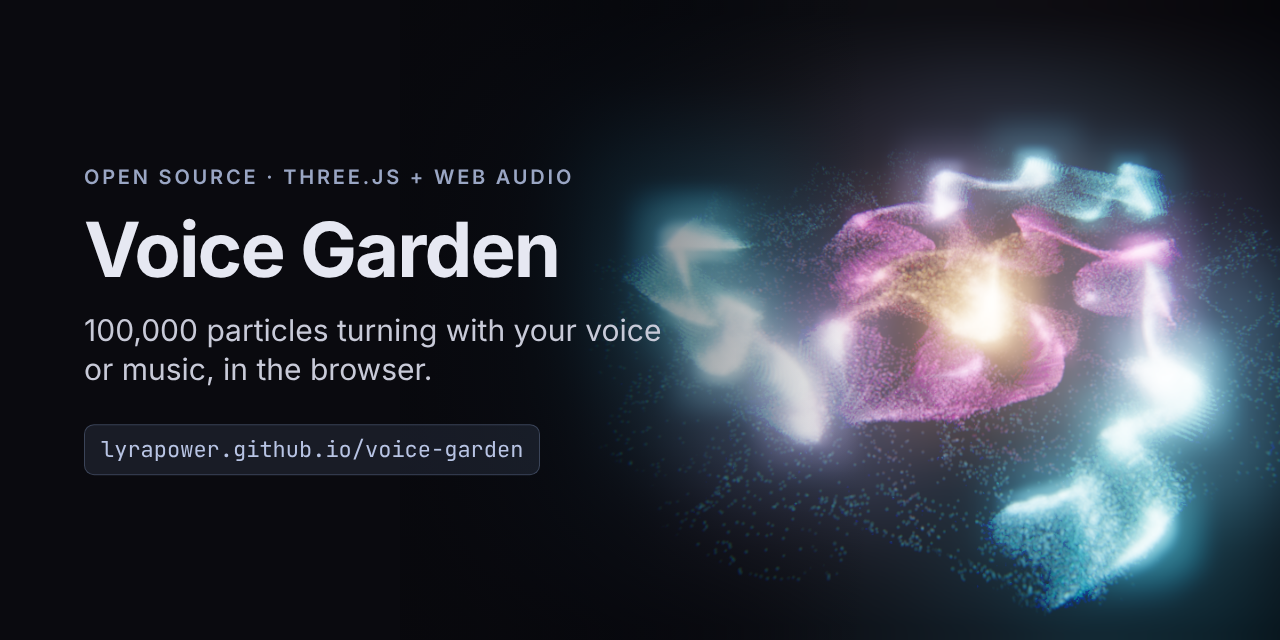
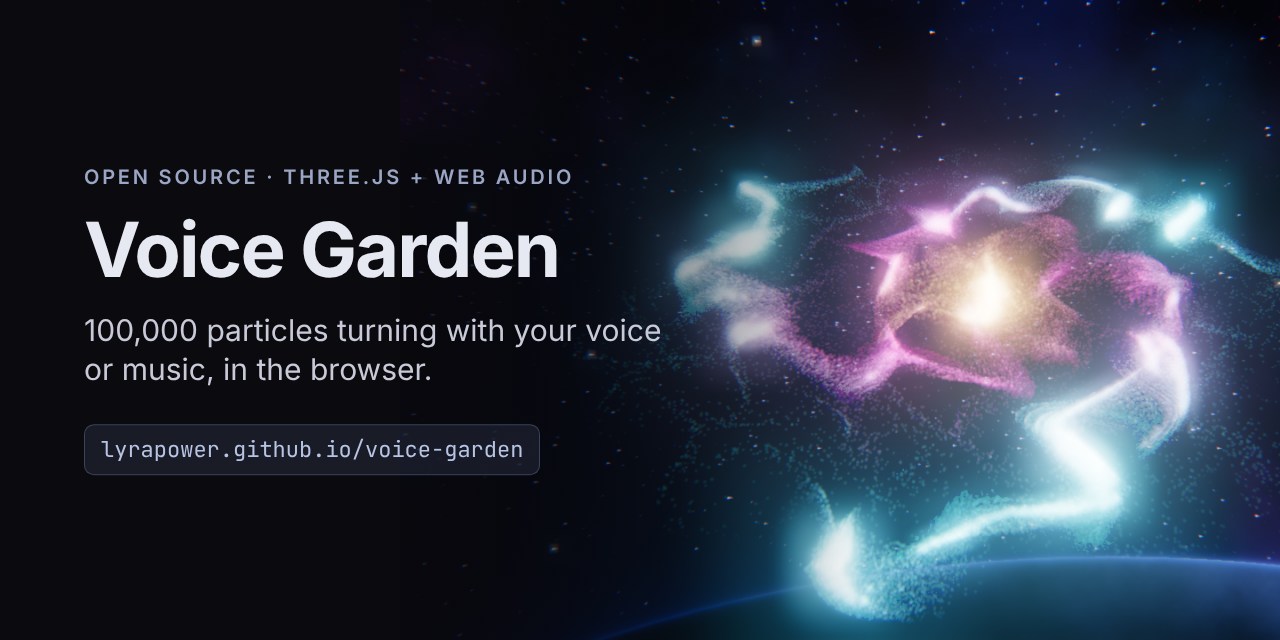
Night sky: slower pan, new gif, social preview and og.png
- The sky pans over four orbits instead of one, so the trail pass no longer smears stars into dashes.
- docs/demo.gif (448 px, 8 s, 12 fps, 3.6 MiB), docs/social-preview.png and public/og.png re-rendered
  with the sky; README describes the backdrop.
- Measured on the gif (frames at 0/2/4/6 s, 64x36 BOX): adjacent mean differences 17.8 / 19.7 / 20.6,
  saturated pixels in 5 of 12 hue bins.

diff --git a/src/Backdrop.ts b/src/Backdrop.ts
@@ -166,8 +166,9 @@ export class Backdrop {
     this.show.uniforms.uTex!.value = this.target.texture;
   }
 
-  /** Pan with the camera's orbit angle (radians): one full orbit sweeps the sky across and back. */
+  /** Pan slowly with the camera's orbit angle (radians): four orbits sweep the sky across and back. Slow enough that
+   * the trail pass does not smear the stars into dashes. */
   setOrbit(angle: number): void {
-    this.show.uniforms.uPan!.value = 0.5 + 0.5 * Math.sin(angle);
+    this.show.uniforms.uPan!.value = 0.5 + 0.5 * Math.sin(angle * 0.25);
   }
 }

diff --git a/README.md b/README.md
@@ -2,7 +2,7 @@
 
 **[▶ Open the live demo](https://lyrapower.github.io/voice-garden/)** · it moves on its own; press **▶ Play demo track** to hear it, or **Mic on** and talk, sing or play music. If it makes you smile, a ⭐ helps other people find it.
 
-![Voice Garden: 100,000 particles turning as a gold, magenta and cyan spiral, with light trails](docs/demo.gif)
+![Voice Garden: 100,000 particles turning as a gold, magenta and cyan spiral over a night sky and a planet's edge](docs/demo.gif)
 
 ```bash
 git clone https://github.com/Lyrapower/voice-garden && cd voice-garden
@@ -16,7 +16,7 @@ Most audio visualizers are bars and waveforms. Voice Garden treats sound more li
 
 ## Features
 
-- **100k particles in one draw call.** One `InstancedMesh` draws camera-facing quads. The vertex shader lays them out as three logarithmic spiral arms that turn as one pattern while the particles stream inward along them, with curl-noise turbulence on top. Light trails, an Unreal bloom pass and a light chromatic aberration finish the image (WebGL2).
+- **100k particles in one draw call.** One `InstancedMesh` draws camera-facing quads. The vertex shader lays them out as three logarithmic spiral arms that turn as one pattern while the particles stream inward along them, with curl-noise turbulence on top. Light trails, an Unreal bloom pass and a light chromatic aberration finish the image (WebGL2). Behind it, a night sky (stars, faint nebula, the limb of a planet) is computed once into a texture, no image files; the controls float over it as frosted glass.
 - **Colour from the sound.** A deep-space palette (navy, cyan, magenta, gold) runs from the rim to the core and leans warmer as the sound gets brighter (spectral centroid); loudness and onsets push brightness and glow.
 - **Moves on its own, plays a demo track, listens to the microphone.** With no input a built-in generator keeps it moving. **▶ Play demo track** plays a 28-second dream-trance loop made entirely from code ([CC0](#license)) through the same analysis, looped sample-exactly with Web Audio. [Meyda](https://meyda.js.org/) extracts loudness (RMS), spectral centroid, dominant frequency and onsets ("beats") from Web Audio; these drive density, flow strength and colour.
 - **Record and replay sessions.** A session is saved as mono WAV plus particle keyframes in IndexedDB, on your device only. Replaying drives the field from the recording. **Record session** is in the Garden panel (top right).
